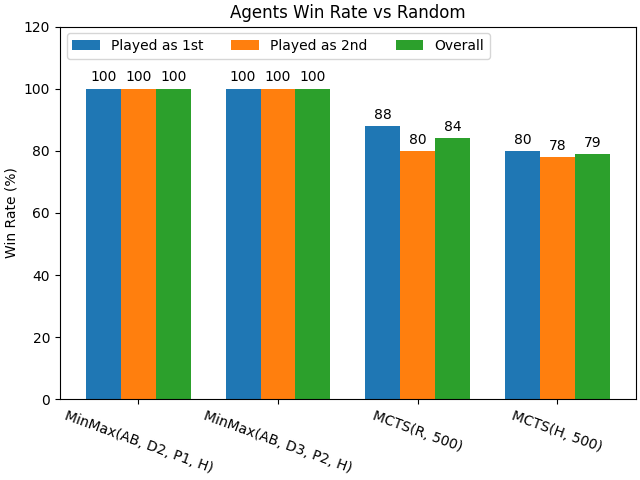
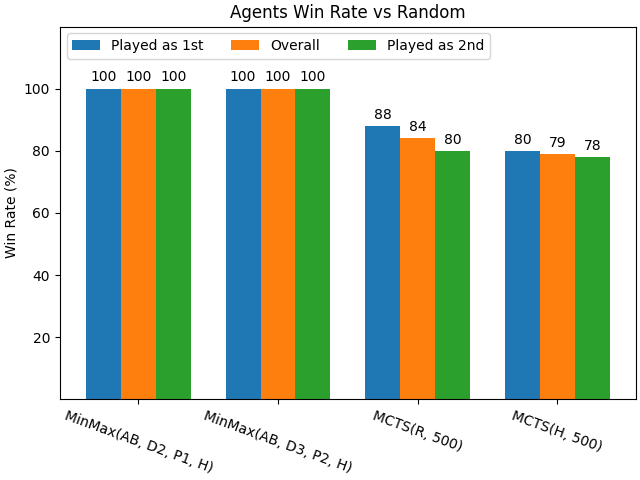
chore: tidy up

diff --git a/ci_quixo/helper.py b/ci_quixo/helper.py
@@ -88,14 +88,22 @@ def evaluate(p1: "Player", p2: "Player" = None, games: int = 10, display: bool =
 
 
 def gen_plots(results: list[Result]) -> None:
-    with open(path.join(PLOT_FOLDER, "results.bkp.pkl"), "wb+") as f:
-        dill.dump(results, f)
+    if results is None:
+        results = []
+
+    if len(results) > 0:
+        with open(path.join(PLOT_FOLDER, "results.bkp.pkl"), "wb+") as f:
+            dill.dump(results, f)
+    else: 
+        with open(path.join(PLOT_FOLDER, "results.bkp.pkl"), "rb") as f:
+            results = dill.load(f)
     plot_time_comparison(results)
-    plot_wr_vs_random(results)
+    plot_wr_vs_random(results, True)
+    plot_wr_vs_random(results, False)
     
     pass
 
-def plot_wr_vs_random(results: list[Result]) -> None:
+def plot_wr_vs_random(results: list[Result], with_time: bool = False) -> None:
     results = [r for r in results if isinstance(r.p2, RandomPlayer)]
     
     player_names = [r.p1.short_name for r in results]
@@ -105,8 +113,8 @@ def plot_wr_vs_random(results: list[Result]) -> None:
 
     values = {
         "Played as 1st": wr1,
+        "Overall": wr,
         "Played as 2nd": wr2,
-        "Overall": wr
     }
 
     x = np.arange(len(player_names)*2, step=2)
@@ -115,20 +123,32 @@ def plot_wr_vs_random(results: list[Result]) -> None:
     
     fig, ax = plt.subplots(layout='constrained')
     multiplier = 0
+    xs = []
     for attribute, measurement in values.items():
         offset = width * multiplier
         rects = ax.bar(x + offset, measurement, width, label=attribute)
         ax.bar_label(rects, padding=3)
+        xs.append(x[1] + offset)
         multiplier += 1
 
     # Add some text for labels, title and custom x-axis tick labels, etc.
     ax.set_ylabel('Win Rate (%)')
-    ax.set_title('Agents Win Rate vs Random')
     ax.set_xticks(x + width, player_names, rotation=-20)
     ax.legend(loc='upper left', ncols=3)
+    ax.set_yticks([20, 40, 60, 80, 100])
     ax.set_ylim(0, 120)
 
-    plt.savefig(path.join(PLOT_FOLDER, "players_wr.png"))
+    if with_time:
+        ax2 = ax.twinx()
+        ys = [r.avg_time for r in results]
+        ax2.plot(x+width, ys, marker='o', linestyle='--', color="C5")
+        plt.ylabel("Average Time per Game (s)", rotation=270, labelpad=15)
+        plt.yticks(ys)
+        plt.title("Average Win Rate and Time vs Random")
+        plt.savefig(path.join(PLOT_FOLDER, "players_wr_with_time.png"))
+    else:
+        ax.set_title('Agents Win Rate vs Random')
+        plt.savefig(path.join(PLOT_FOLDER, "players_wr.png"))
 
 
 def plot_time_comparison(results: list[Result]) -> None:

diff --git a/ci_quixo/__main__.py b/ci_quixo/__main__.py
@@ -7,6 +7,7 @@ except:
     from .main import Player
     from .helper import evaluate, Result, gen_plots
 import dill, multiprocessing
+from typing import Callable
 dill.Pickler.dumps, dill.Pickler.loads = dill.dumps, dill.loads
 multiprocessing.reduction.ForkingPickler = dill.Pickler
 multiprocessing.reduction.dump = dill.dump
@@ -42,15 +43,43 @@ def test_minmax_vs_mcts_random() -> Result:
 def test_minmax_vs_mcts_heuristic() -> Result:
     return evaluate(minmax2, mcts_h, games=GAMES, display=DISPLAY_RES, hide_pbar=HIDE_PBAR)
 
-def call(it: callable) -> Result:
+def call(it: Callable[[], Result]) -> Result:
     return it()
 
-if __name__ == "__main__":
+def main(tests: list[Callable[[], Result]]): 
     from tqdm import tqdm
-    evals = [test_minmax_vs_random, test_minmax3_vs_random, test_mcts_r_vs_random, test_mcts_h_vs_random, test_minmax_vs_mcts_random, test_minmax_vs_mcts_heuristic][:]
+
+    if len(tests) == 0:
+        gen_plots(tests)
+        return
+
     if PARALLELIZE:
         with multiprocessing.Pool() as p:
-            RESULTS = list(tqdm(p.imap(call, evals), total=len(evals), unit="test", desc=f"Testing with {GAMES} games each"))
+            RESULTS = []
+            pbar = tqdm(p.imap(call, tests), total=len(tests), unit="test", desc=f"Testing with {GAMES} games each")
+            for it in pbar:
+                RESULTS.append(it)
+
     else:
-        RES = [it() for it in tqdm(evals, desc="Evaluating", unit="eval")]        
+        RESULTS = []
+        pbar = tqdm(tests, unit="test", desc=f"Testing with {GAMES} games each")
+        for it in pbar:
+            pbar.set_postfix({"current": it.__name__})
+            res = it()
+            RESULTS.append(res)
     gen_plots(RESULTS)
+
+
+if __name__ == "__main__":
+    VS_RANDOM = [test_minmax_vs_random, test_minmax3_vs_random, test_mcts_r_vs_random, test_mcts_h_vs_random]
+    VS_EACHOTHER = [test_minmax_vs_mcts_random, test_minmax_vs_mcts_heuristic]
+    ALL_ = [*VS_RANDOM, *VS_EACHOTHER]
+    # To use saved results
+    main([])
+    # To recalculate all of them
+    # main(ALL_)
+    # To test only one of them
+    # main([test_minmax_vs_random])
+
+    # To run this file, python -m ci_quixo (while in folder ci_quixo, not inside ci_quixo/ci_quixo)
+

diff --git a/README.md b/README.md
@@ -39,9 +39,12 @@ The game Quixo is a Tic-Tac-Toe variant, played on a five-by-five board of cubes
 |      MCTS(R500): 500 Games with Random Moves      |  100  |      84      |            8.91           |            0.90           |          985          |
 |        MCTS(H500): 500 Games with Heuristic       |  100  |      79      |           52.45           |            4.42           |          1186         |
 
-![Win Rates - https://i.imgur.com/EG4VHRS.png](./ci_quixo/results/players_wr.png)
+![Win Rates - https://i.imgur.com/pIBk1pu.png](./ci_quixo/results/players_wr.png)
 
-![Time Comparison - https://i.imgur.com/QyHemXw.png](./ci_quixo/results/time_comparison.png)
+![Time Comparison - https://i.imgur.com/PKC4pGO.png](./ci_quixo/results/time_comparison.png)
+
+![Above but Combined - https://i.imgur.com/1i7MSBi.png](./ci_quixo/results/players_wr_with_time.png)
+
 ## Possible Improvements
 
 - [ ] Minmax w/ RankCut
